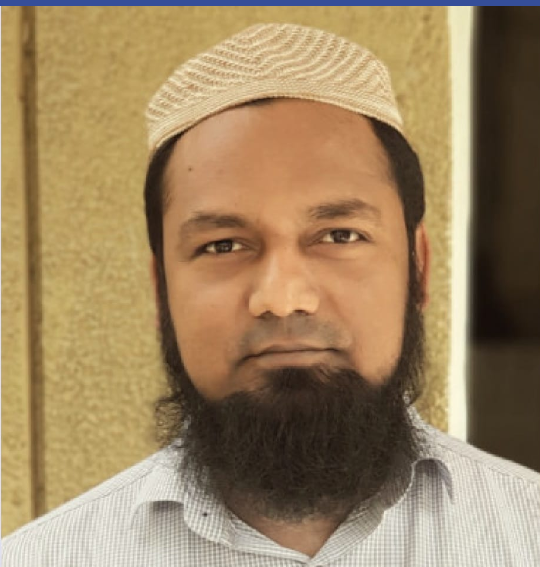
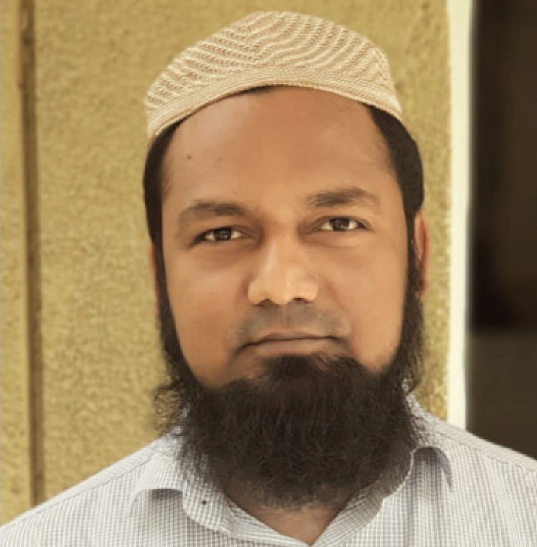
fix(ui): update professor portrait with user photo and remove colored top edge from contact forms

diff --git a/frontend/src/pages/ContactPage.tsx b/frontend/src/pages/ContactPage.tsx
@@ -295,8 +295,9 @@ export const ContactPage: React.FC<ContactPageProps> = ({ settings }) => {
                     <div
                       style={{
                         padding: '0.85rem 1rem',
-                        borderLeft: '3px solid #B02A2A',
-                        background: 'rgba(176, 42, 42, 0.08)',
+                        border: '1px solid rgba(176, 42, 42, 0.3)',
+                        borderRadius: 'var(--radius-sm)',
+                        background: 'rgba(176, 42, 42, 0.05)',
                         marginBottom: '1.5rem',
                         fontFamily: 'var(--font-sans)',
                         fontSize: '0.875rem',

diff --git a/frontend/src/styles/components.css b/frontend/src/styles/components.css
@@ -239,8 +239,9 @@
 
 .hero-portrait-img {
   width: 100%;
-  aspect-ratio: 4 / 5;
+  aspect-ratio: 1 / 1;
   object-fit: cover;
+  object-position: center center;
   display: block;
   border-radius: var(--radius-xl);
   border: 1px solid var(--border-hairline);
@@ -1128,10 +1129,9 @@
 .contact-form-box {
   background-color: var(--bg-elevated);
   border: 1px solid var(--border-hairline);
-  border-top: 3px solid var(--accent-sage);
   padding: clamp(1.75rem, 4vw, 3rem);
   border-radius: var(--radius-xl);
-  box-shadow: 0 8px 30px rgba(31, 31, 31, 0.05);
+  box-shadow: 0 8px 30px rgba(31, 31, 31, 0.04);
 }
 
 .contact-form-box .form-label {

diff --git a/frontend/src/pages/JoinPage.tsx b/frontend/src/pages/JoinPage.tsx
@@ -358,7 +358,9 @@ export const JoinPage: React.FC = () => {
                   <div
                     style={{
                       padding: '1rem',
-                      borderLeft: '3px solid #B02A2A',
+                      border: '1px solid rgba(176, 42, 42, 0.3)',
+                      borderRadius: 'var(--radius-sm)',
+                      background: 'rgba(176, 42, 42, 0.05)',
                       marginBottom: '2rem',
                       fontFamily: 'var(--font-sans)',
                       fontSize: '0.875rem',

diff --git a/frontend/src/pages/HomePage.tsx b/frontend/src/pages/HomePage.tsx
@@ -54,9 +54,9 @@ export const HomePage: React.FC<HomePageProps> = ({ data }) => {
 
   const portraitSrc = settings.portrait
     ? settings.portrait.startsWith('http')
-      ? settings.portrait
-      : `http://127.0.0.1:8000${settings.portrait}`
-    : '/portraits/dr_musheer_ahmad.png';
+      ? `${settings.portrait}?v=2`
+      : `http://127.0.0.1:8000${settings.portrait}?v=2`
+    : '/portraits/dr_musheer_ahmad.png?v=2';
 
   const cvHref = settings.cv_file
     ? settings.cv_file.startsWith('http')
